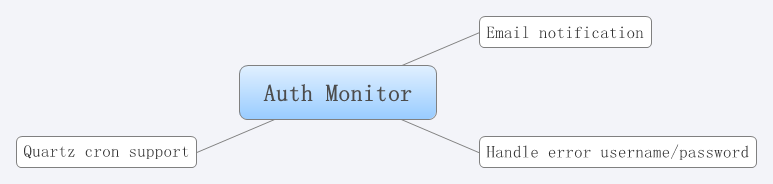
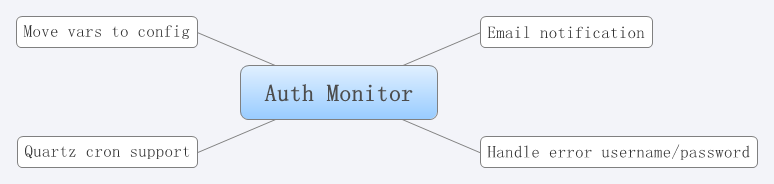
Working

diff --git a/src/main/webapp/index.html b/src/main/webapp/index.html
@@ -1,0 +1,8 @@
+<html>
+<head>
+<title>Welcome to Snda Auth Monitor</title>
+</head>
+<body>
+	<h1>Welcome to Snda Auth Monitor, it's Working!</h1>
+</body>
+</html>

diff --git a/src/main/java/com/snda/infrastructure/auth/monitor/AuthMonitorBootstrap.java b/src/main/java/com/snda/infrastructure/auth/monitor/AuthMonitorBootstrap.java
@@ -1,11 +1,11 @@
 package com.snda.infrastructure.auth.monitor;
 
+import static com.snda.infrastructure.auth.monitor.Environment.$;
+
 import java.util.Date;
-import java.util.Properties;
 
-import org.springframework.mail.javamail.JavaMailSender;
-import org.springframework.mail.javamail.JavaMailSenderImpl;
-
+import com.google.common.base.Splitter;
+import com.googlecode.functionalcollections.FunctionalIterables;
 import com.snda.infrastructure.auth.monitor.listener.EmailListener;
 import com.snda.infrastructure.auth.monitor.listener.PersistenceListener;
 import com.snda.infrastructure.auth.monitor.plugin.qidian.QidianSeleniumMonitor;
@@ -20,10 +20,11 @@ public class AuthMonitorBootstrap {
 	}
 	
 	public void start() {
-		console.addMonitor(new QidianSeleniumMonitor(authContext(), seneniumConfig(), expectedText()));
-		console.addListener(new PersistenceListener()).on(AuthResultType.SUCCESS, AuthResultType.FAILED);
-		console.addListener(new EmailListener(mailSender(), from(), receptionist())).on(AuthResultType.SUCCESS, AuthResultType.FAILED);
-		console.schedulerAt(cron());
+		Environment.initialize();
+		console.registerMonitor(new QidianSeleniumMonitor(authContext(), seneniumConfig(), expectedText()));
+		console.registerListener(new PersistenceListener()).on(AuthResultType.SUCCESS, AuthResultType.FAILED);
+		console.registerListener(new EmailListener(MailSenders.create(), from(), receptionist())).on(AuthResultType.SUCCESS, AuthResultType.FAILED);
+		console.schedulerAt($("cron"));
 		console.start();
 	}
 	
@@ -36,37 +37,19 @@ public class AuthMonitorBootstrap {
 	}
 
 	private SeleniumConfig seneniumConfig() {
-		return new SeleniumConfig("localhost", 4444, "*firefox");
+		return new SeleniumConfig($("selenium.server.host"), Integer.parseInt($("selenium.server.port")), "*firefox");
 	}
 	
 	private String expectedText() {
 		return "101116141742200";
 	}
 	
-	private String cron() {
-		return "0 0/1 * * * ?";
-	}
-
-	private JavaMailSender mailSender() {
-		JavaMailSenderImpl mailSender = new JavaMailSenderImpl();
-		mailSender.setHost("61.172.242.14");
-		mailSender.setPort(25);
-		mailSender.setUsername("");
-		mailSender.setPassword("");
-		Properties javaMailProperties = new Properties();
-		javaMailProperties.setProperty("mail.smtp.auth", "true");
-		javaMailProperties.setProperty("mail.smtp.timeout", "25000");
-//		javaMailProperties.setProperty("mail.smtp.starttls.enable", "true");
-		mailSender.setJavaMailProperties(javaMailProperties);
-		return mailSender;
-	}
-	
 	private String from() {
-		return "noreply@snda.com";
+		return $("mail.from.address");
 	}
 	
 	private String[] receptionist() {
-		return new String[] {"java2enterprise@gmail.com", "wangzheng.james@snda.com"};
+		return FunctionalIterables.make(Splitter.on(",").split($("mail.to.addresses"))).toArray(String.class);
 	}
 	
 }

diff --git a/src/main/java/com/snda/infrastructure/auth/monitor/AuthMonitorConsoleImpl.java b/src/main/java/com/snda/infrastructure/auth/monitor/AuthMonitorConsoleImpl.java
@@ -11,11 +11,15 @@ import org.quartz.SchedulerException;
 import org.quartz.SchedulerFactory;
 import org.quartz.Trigger;
 import org.quartz.impl.StdSchedulerFactory;
+import org.slf4j.Logger;
+import org.slf4j.LoggerFactory;
 
 import com.google.common.base.Throwables;
 
 public class AuthMonitorConsoleImpl implements AuthMonitorConsole {
 
+	private static Logger logger = LoggerFactory.getLogger(AuthMonitorConsoleImpl.class);
+	
 	public static final String MONITORS_KEY = "monitors";
 	public static final String LISTENERS_KEY = "listeners";
 	
@@ -28,13 +32,13 @@ public class AuthMonitorConsoleImpl implements AuthMonitorConsole {
 	private List<ClassfiedAuthListener> listeners = new ArrayList<ClassfiedAuthListener>();
 
 	@Override
-	public AuthMonitorConsole addMonitor(AuthMonitor monitor) {
+	public AuthMonitorConsole registerMonitor(AuthMonitor monitor) {
 		this.monitors.add(monitor);
 		return this;
 	}
 	
 	@Override
-	public ClassfiedAuthListenerBuilder addListener(AuthListener authListener) {
+	public ClassfiedAuthListenerBuilder registerListener(AuthListener authListener) {
 		ClassfiedAuthListenerBuilderImpl classfiedAuthListenerBuilderImpl 
 			= new ClassfiedAuthListenerBuilderImpl(authListener);
 		this.builders.add(classfiedAuthListenerBuilderImpl);
@@ -64,6 +68,7 @@ public class AuthMonitorConsoleImpl implements AuthMonitorConsole {
 			trigger.setStartTime(new Date());
 			scheduler.scheduleJob(jobDetail, trigger);
 		} catch (Exception e) {
+			logger.error("Failed to start quartz job : " + e.getMessage(), e);
 			Throwables.propagate(e);
 		}
 	}

diff --git a/src/test/java/com/snda/infrastructure/auth/monitor/AuthMonitorConsoleTest.java b/src/test/java/com/snda/infrastructure/auth/monitor/AuthMonitorConsoleTest.java
@@ -17,12 +17,12 @@ public class AuthMonitorConsoleTest {
 	public void test() throws InterruptedException {
 		AuthMonitorConsole console = new AuthMonitorConsoleImpl();
 		AuthMonitor qidianMonitor = mock(AuthMonitor.class);
-		console.addMonitor(qidianMonitor);
+		console.registerMonitor(qidianMonitor);
 		AuthListener persistenceListener = mock(AuthListener.class);
 		AuthListener emailListener = mock(AuthListener.class);
-		console.addListener(persistenceListener).on(AuthResultType.SUCCESS, AuthResultType.FAILED);
-		console.addListener(emailListener).on(AuthResultType.FAILED);
-		console.schedulerAt("0/2 * * * * ?");
+		console.registerListener(persistenceListener).on(AuthResultType.SUCCESS, AuthResultType.FAILED);
+		console.registerListener(emailListener).on(AuthResultType.FAILED);
+		console.schedulerAt("0/1 * * * * ?");
 		
 		AuthResult authResult = new AuthResult(
 			new AuthContext("http://www.qidian.com/", "sdotracker2010", "******", new Date()),
@@ -33,7 +33,7 @@ public class AuthMonitorConsoleTest {
 		when(qidianMonitor.execute()).thenReturn(authResult);
 		
 		console.start();
-		TimeUnit.SECONDS.sleep(30);
+		TimeUnit.SECONDS.sleep(5);
 		console.stop();
 
 		verify(persistenceListener, atLeastOnce()).onResult(authResult);

diff --git a/src/main/java/com/snda/infrastructure/auth/monitor/MailSenders.java b/src/main/java/com/snda/infrastructure/auth/monitor/MailSenders.java
@@ -1,0 +1,26 @@
+package com.snda.infrastructure.auth.monitor;
+
+import static com.snda.infrastructure.auth.monitor.Environment.$;
+
+import java.util.Properties;
+
+import org.springframework.mail.javamail.JavaMailSender;
+import org.springframework.mail.javamail.JavaMailSenderImpl;
+
+public abstract class MailSenders {
+
+	public static JavaMailSender create() {		
+		JavaMailSenderImpl mailSender = new JavaMailSenderImpl();
+		mailSender.setHost($("mail.smtp.server.host"));
+		mailSender.setPort(Integer.parseInt($("mail.smtp.server.port")));
+		mailSender.setUsername($("mail.smtp.username"));
+		mailSender.setPassword($("mail.smtp.password"));
+		Properties javaMailProperties = new Properties();
+		javaMailProperties.setProperty("mail.smtp.auth", $("mail.smtp.auth"));
+		javaMailProperties.setProperty("mail.smtp.timeout", $("mail.smtp.timeout"));
+//		javaMailProperties.setProperty("mail.smtp.starttls.enable", "true");
+		mailSender.setJavaMailProperties(javaMailProperties);
+		return mailSender;
+	}
+
+}

diff --git a/src/main/java/com/snda/infrastructure/auth/monitor/Environment.java b/src/main/java/com/snda/infrastructure/auth/monitor/Environment.java
@@ -1,0 +1,37 @@
+package com.snda.infrastructure.auth.monitor;
+
+import java.io.IOException;
+import java.util.Properties;
+
+import org.slf4j.Logger;
+import org.slf4j.LoggerFactory;
+
+import com.google.common.base.Preconditions;
+import com.google.common.base.Throwables;
+
+public abstract class Environment {
+
+	private static Logger logger = LoggerFactory.getLogger(Environment.class);
+	
+	private static Properties properties = new Properties();
+	
+	public static void initialize() {
+		String configFile = "environment.properties";
+		try {
+			properties.load(
+				Preconditions.checkNotNull(
+					Thread.currentThread().getContextClassLoader().getResourceAsStream(configFile),
+					configFile + "missing!"
+				)
+			);
+		} catch (IOException e) {
+			logger.error("Failed to load config : " + configFile, e);
+			Throwables.propagate(e);
+		}
+	}
+
+	public static String $(String key) {
+		return properties.getProperty(key);
+	}
+
+}

diff --git a/src/main/java/com/snda/infrastructure/auth/monitor/KernalJob.java b/src/main/java/com/snda/infrastructure/auth/monitor/KernalJob.java
@@ -17,16 +17,12 @@ public final class KernalJob implements Job {
 		List<ClassfiedAuthListener> listeners = (List<ClassfiedAuthListener>) jobDataMap.get(AuthMonitorConsoleImpl.LISTENERS_KEY);
 		
 		for (AuthMonitor monitor : monitors) {
-			try {
-				AuthResult result = monitor.execute();
-				for (ClassfiedAuthListener listener : listeners) {
-					if (listener.types().contains(result.resultType())) {
-						listener.authListener().onResult(result);
-					}
-				}	
-			} catch (Exception e) {
-				throw new JobExecutionException(e);
-			}
+			AuthResult result = monitor.execute();
+			for (ClassfiedAuthListener listener : listeners) {
+				if (listener.types().contains(result.resultType())) {
+					listener.authListener().onResult(result);
+				}
+			}	
 		}
 	}
 	

diff --git a/src/main/java/com/snda/infrastructure/auth/monitor/web/listener/BootstrapListener.java b/src/main/java/com/snda/infrastructure/auth/monitor/web/listener/BootstrapListener.java
@@ -1,0 +1,22 @@
+package com.snda.infrastructure.auth.monitor.web.listener;
+
+import javax.servlet.ServletContextEvent;
+import javax.servlet.ServletContextListener;
+
+import com.snda.infrastructure.auth.monitor.AuthMonitorBootstrap;
+
+public class BootstrapListener implements ServletContextListener {
+
+	private AuthMonitorBootstrap bootstrap  = new AuthMonitorBootstrap();
+	
+	@Override
+	public void contextInitialized(ServletContextEvent sce) {
+		bootstrap.start();
+	}
+
+	@Override
+	public void contextDestroyed(ServletContextEvent sce) {
+		bootstrap.stop();
+	}
+
+}

diff --git a/src/main/java/com/snda/infrastructure/auth/monitor/AuthMonitorConsole.java b/src/main/java/com/snda/infrastructure/auth/monitor/AuthMonitorConsole.java
@@ -2,9 +2,9 @@ package com.snda.infrastructure.auth.monitor;
 
 public interface AuthMonitorConsole {
 
-	AuthMonitorConsole addMonitor(AuthMonitor monitor);
+	AuthMonitorConsole registerMonitor(AuthMonitor monitor);
 	
-	ClassfiedAuthListenerBuilder addListener(AuthListener authListener);
+	ClassfiedAuthListenerBuilder registerListener(AuthListener authListener);
 
 	AuthMonitorConsole schedulerAt(String cronExpression);
 
